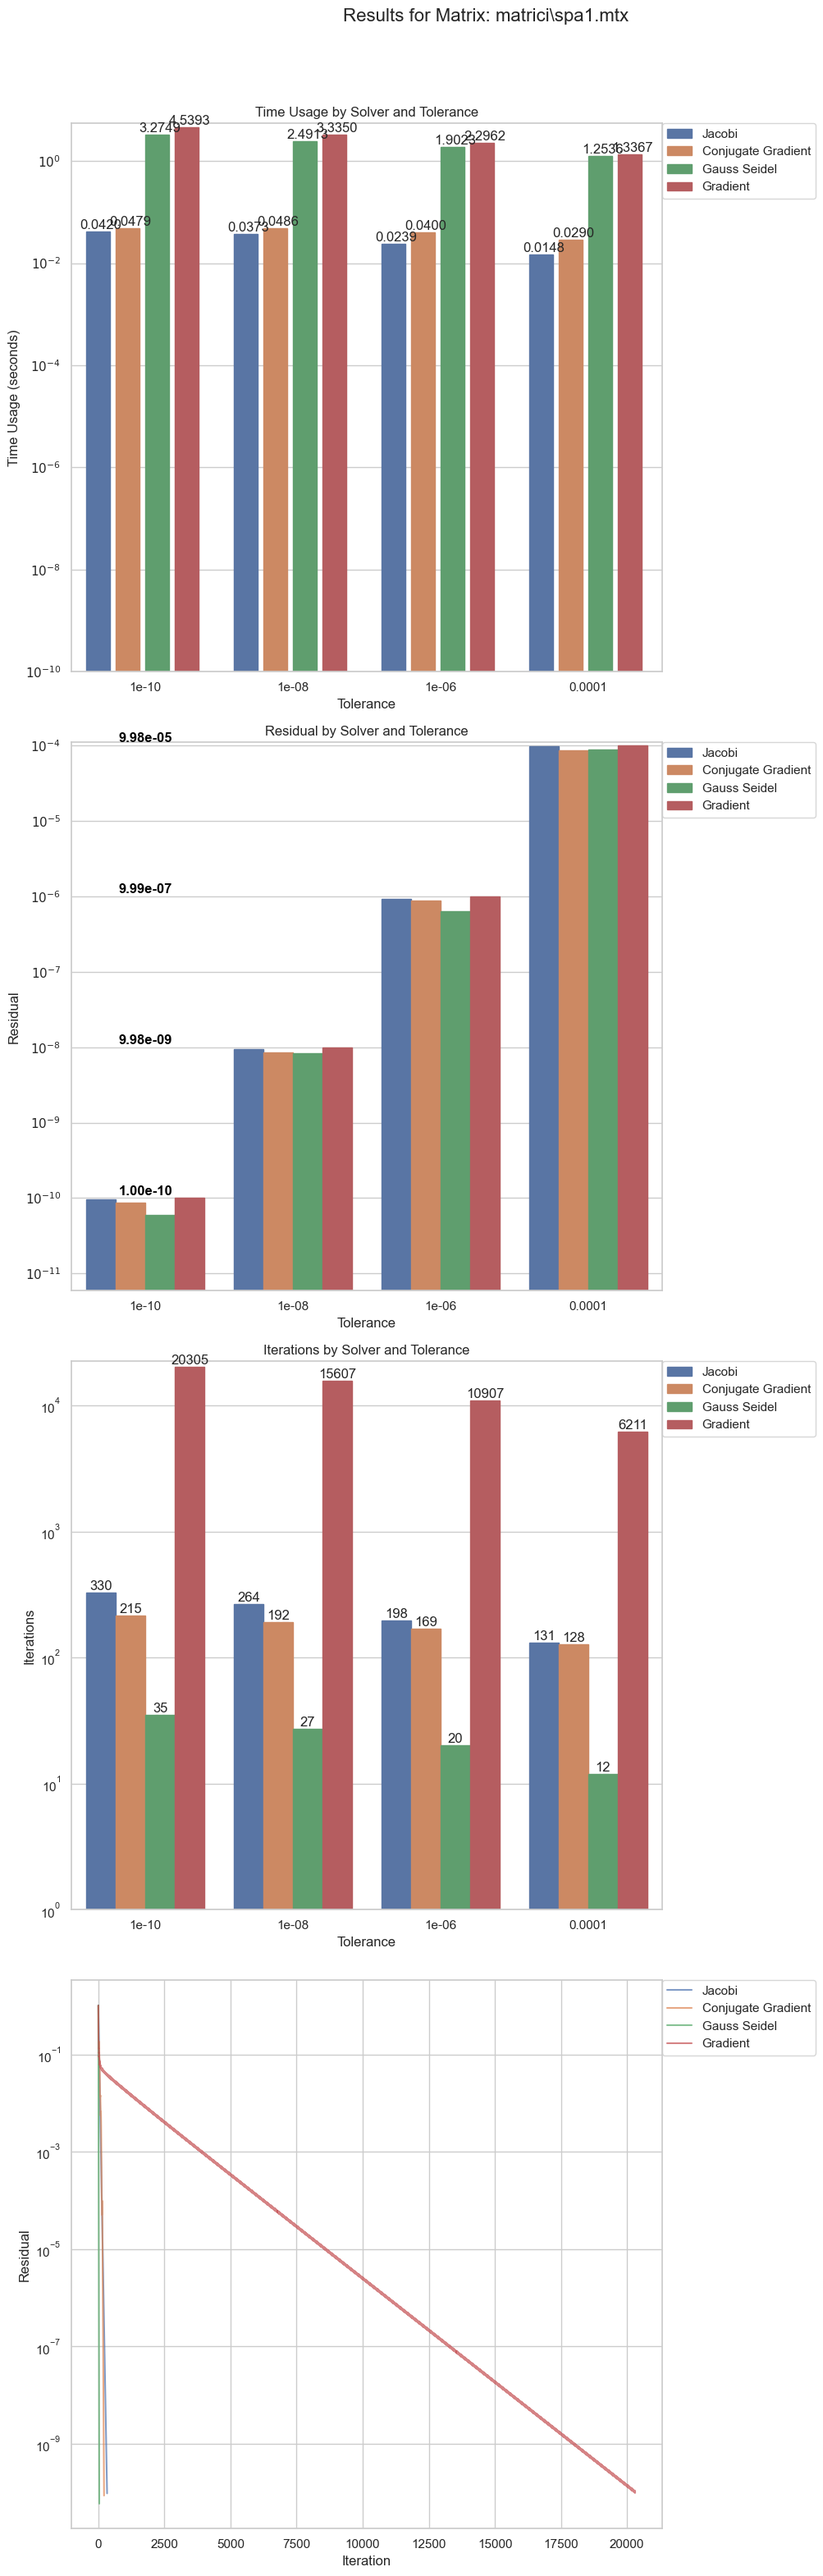
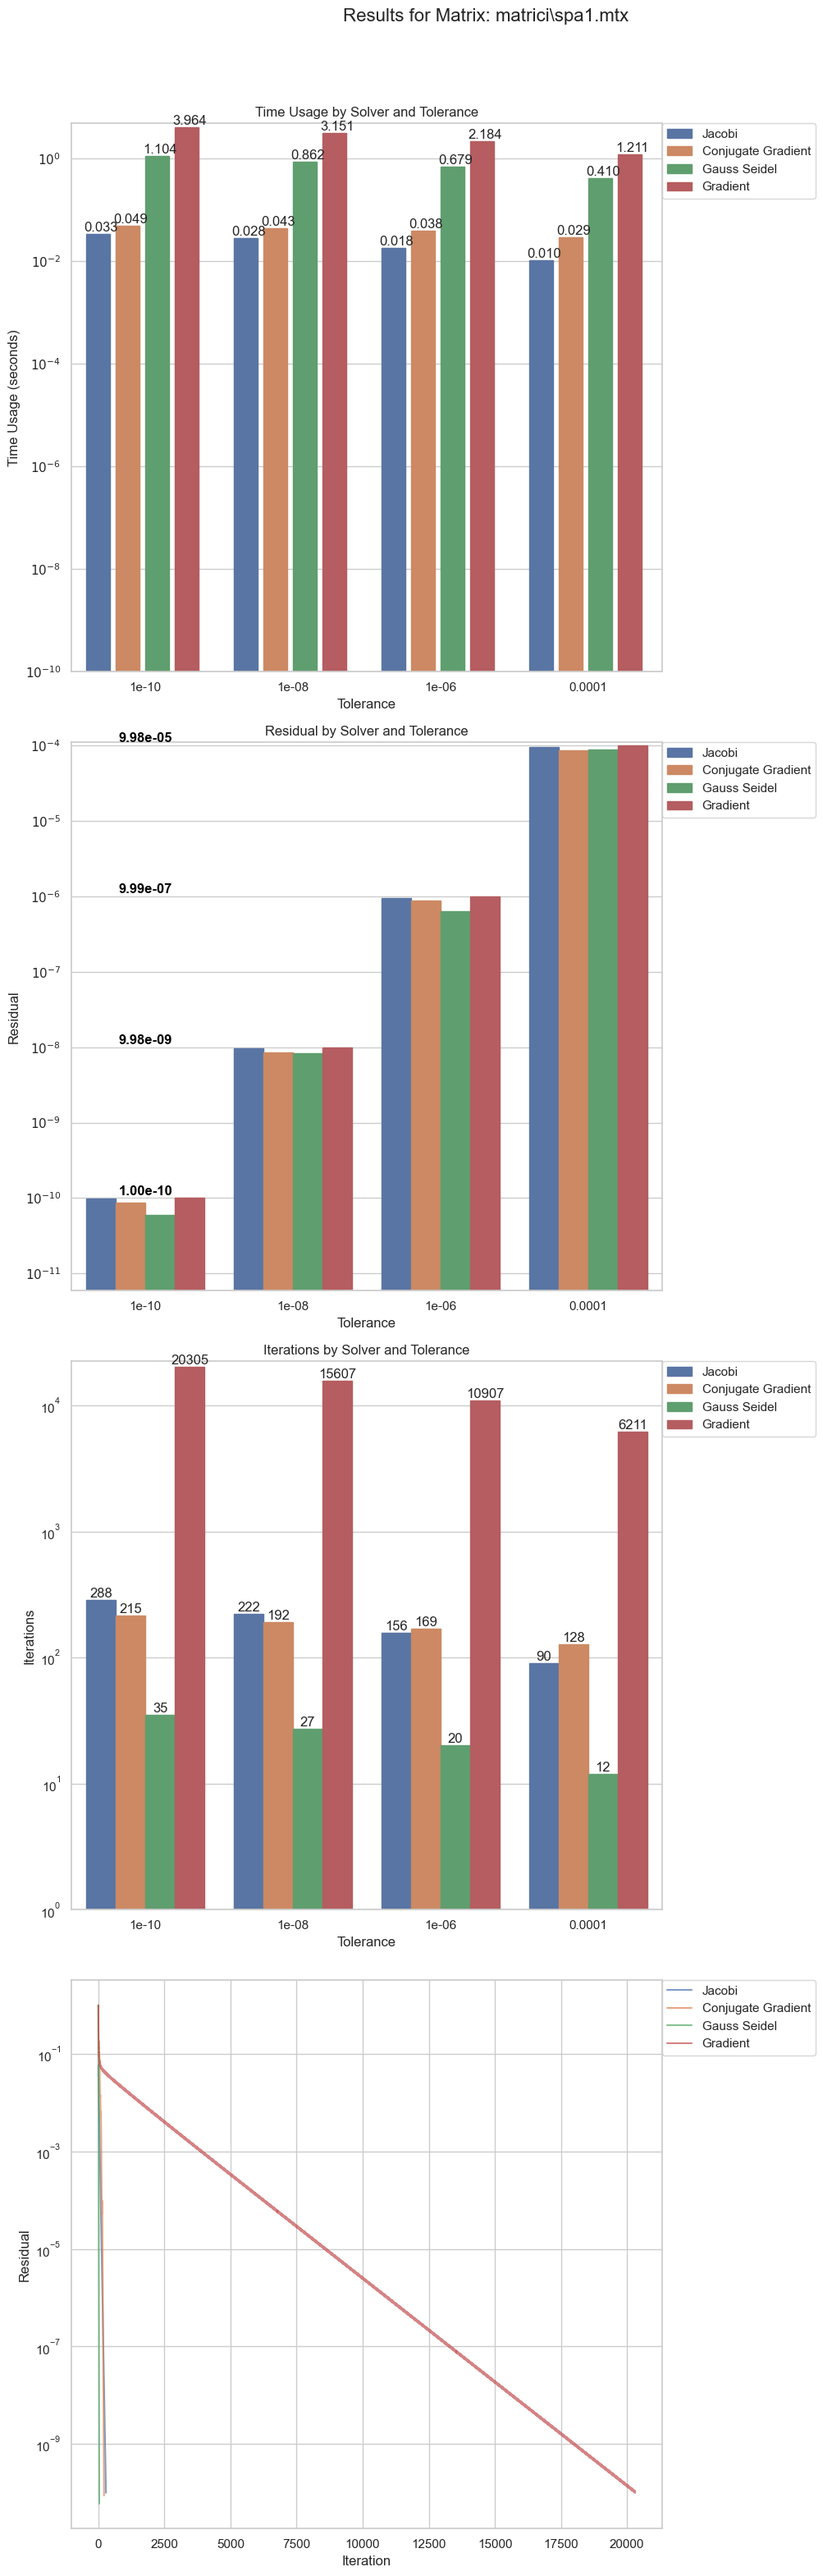
final

diff --git a/solver_runner.py b/solver_runner.py
@@ -99,7 +99,12 @@ def plot_results(df):
         matrix_df = df[df['Matrix'] == matrix]
 
         fig, axs = plt.subplots(4, 1, figsize=(12, 32))
-        fig.suptitle(f'Results for Matrix: {matrix}', fontsize=16)
+
+        # Adjust the spacing to move the title higher
+        plt.subplots_adjust(top=0.95)  # Reduce the top margin to move the title up
+
+        fig.suptitle(f'Results for Matrix: {matrix}', fontsize=16, y=0.98)  # Adjust y parameter to move title higher
+
         matrix_df = matrix_df.sort_values(by='Tolerance', ascending=False)
 
         # Plot time usage
@@ -110,13 +115,13 @@ def plot_results(df):
         axs[0].set_xlabel('Tolerance')
         axs[0].set_yscale('log')  # Set y-axis to logarithmic scale to make all bars visible
         axs[0].set_ylim(1e-10, max_time * 1.2)  # Set y-axis limits starting from 1e-10 for better visibility
-        
+
         # Format y-axis with exponential notation
         axs[0].yaxis.set_major_formatter(mticker.FuncFormatter(lambda x, _: f'$10^{{{int(np.log10(x))}}}$' if x > 0 else ''))
 
         # Round time usage to 3 decimal places for labels
         for container in axs[0].containers:
-            labels = [f'{v.get_height():.4f}' for v in container] 
+            labels = [f'{v.get_height():.3f}' for v in container] 
             axs[0].bar_label(container, labels=labels)
 
         for patch in barplot.patches:
@@ -136,7 +141,7 @@ def plot_results(df):
         axs[1].set_xlabel('Tolerance')
         axs[1].set_yscale('log')
         axs[1].set_ylim(min_residual * 0.1, max_residual * 1.1)
-        
+
         # Use scientific notation for the y-axis labels
         axs[1].yaxis.set_major_formatter(mticker.FuncFormatter(lambda x, _: f'$10^{{{int(np.log10(x))}}}$' if x > 0 else ''))
 
@@ -195,6 +200,7 @@ def plot_results(df):
         plot_path = os.path.join(RESULTS_DIR, f'{os.path.basename(matrix)}_results.png')
         plt.savefig(plot_path, bbox_inches='tight')  # Save figure with adjusted bbox
         plt.close(fig)
+
 
 
 if __name__ == "__main__":

diff --git a/GaussSeidelExecuter.py b/GaussSeidelExecuter.py
@@ -1,21 +1,16 @@
 import numpy as np
 from scipy.sparse import csc_matrix, tril
-from scipy.sparse.linalg import splu
+from scipy.sparse.linalg import spsolve
 from Executer import Executer
 
 class GaussSeidelExecuter(Executer):
     def __init__(self, matrix: csc_matrix, tol: float, max_iter: int = 20000):
         super().__init__(matrix, tol, max_iter)
         self.triang_inf = tril(matrix).tocsc()  # Sparse lower triangular matrix
-        self.LU = splu(self.triang_inf)  # Precompute LU decomposition for the lower triangular part
-
-    def forward_substitution(self, L: csc_matrix, b: np.ndarray):
-        """Perform forward substitution to solve Ly = b for a lower triangular matrix L."""
-        return self.LU.solve(b)  # Use LU solver for optimized forward substitution
     
     def update_function(self):
         r = self.b - self.matrix.dot(self.x)  # Compute residual r(k) = b - A * x(k)
-        y = self.forward_substitution(self.triang_inf, r)  # Solve P * y = r(k) using optimized forward substitution
+        y = spsolve(self.triang_inf, r)  # Solve P * y = r(k) using optimized forward substitution
         
         # Update x(k) = x(k) + y in-place
         self.x += y
